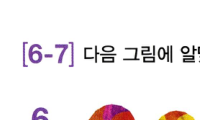
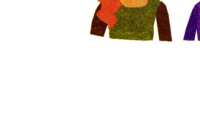
fix(red1): recrop review 01-03 picture items from page PNGs

diff --git a/scripts/red1-build/crop-review-images.py b/scripts/red1-build/crop-review-images.py
@@ -7,72 +7,72 @@ REPO = Path(__file__).resolve().parents[2]
 
 # (src_page, box, out_rel)
 CROPS = [
-    # Review 01 p38 — Q8–10
+    # Review 01 p38 — Q8–10 (printed p37)
     (
         "/tmp/red1-rv01/pages/p0038.png",
-        (52, 128, 252, 248),
+        (40, 585, 270, 725),
         "assets/img/red1/review01/q08.png",
     ),
     (
         "/tmp/red1-rv01/pages/p0038.png",
-        (52, 318, 252, 438),
+        (40, 775, 270, 915),
         "assets/img/red1/review01/q09.png",
     ),
     (
         "/tmp/red1-rv01/pages/p0038.png",
-        (52, 508, 252, 628),
+        (40, 940, 270, 1080),
         "assets/img/red1/review01/q10.png",
     ),
-    # Review 02 p70 — Q6–10
+    # Review 02 p70 — Q6–10 (printed p69)
     (
         "/tmp/red1-rv02/pages/p0070.png",
-        (52, 128, 252, 248),
+        (55, 195, 265, 320),
         "assets/img/red1/review02/q06.png",
     ),
     (
         "/tmp/red1-rv02/pages/p0070.png",
-        (52, 318, 252, 438),
+        (55, 360, 265, 490),
         "assets/img/red1/review02/q07.png",
     ),
     (
         "/tmp/red1-rv02/pages/p0070.png",
-        (52, 468, 252, 588),
+        (120, 655, 270, 785),
         "assets/img/red1/review02/q08.png",
     ),
     (
         "/tmp/red1-rv02/pages/p0070.png",
-        (52, 658, 252, 778),
+        (55, 800, 265, 940),
         "assets/img/red1/review02/q09.png",
     ),
     (
         "/tmp/red1-rv02/pages/p0070.png",
-        (52, 848, 252, 968),
+        (55, 980, 265, 1120),
         "assets/img/red1/review02/q10.png",
     ),
-    # Review 03 p101 — Q1–5 (two columns on page)
+    # Review 03 p101 — Q1–5 (printed p100)
     (
         "/tmp/red1-rv03/pages/p0101.png",
-        (52, 168, 252, 288),
+        (60, 190, 310, 365),
         "assets/img/red1/review03/q01.png",
     ),
     (
         "/tmp/red1-rv03/pages/p0101.png",
-        (458, 168, 658, 288),
+        (470, 190, 720, 365),
         "assets/img/red1/review03/q02.png",
     ),
     (
         "/tmp/red1-rv03/pages/p0101.png",
-        (52, 398, 252, 518),
+        (50, 545, 275, 665),
         "assets/img/red1/review03/q03.png",
     ),
     (
         "/tmp/red1-rv03/pages/p0101.png",
-        (458, 398, 658, 518),
+        (285, 548, 540, 648),
         "assets/img/red1/review03/q04.png",
     ),
     (
         "/tmp/red1-rv03/pages/p0101.png",
-        (52, 628, 252, 748),
+        (50, 880, 275, 1020),
         "assets/img/red1/review03/q05.png",
     ),
 ]
